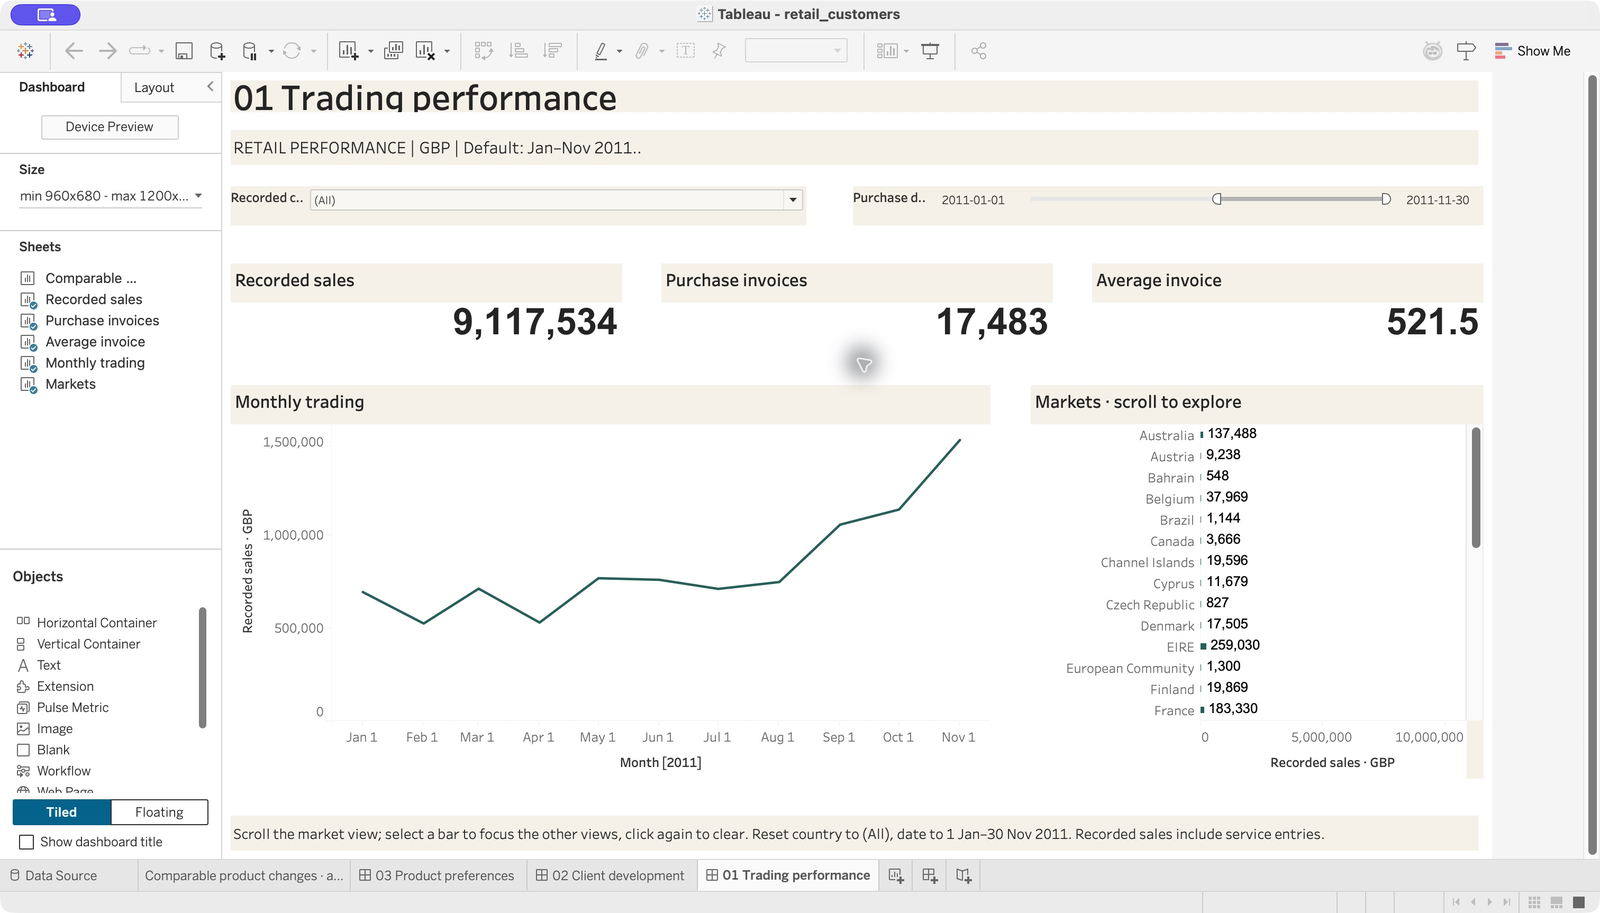
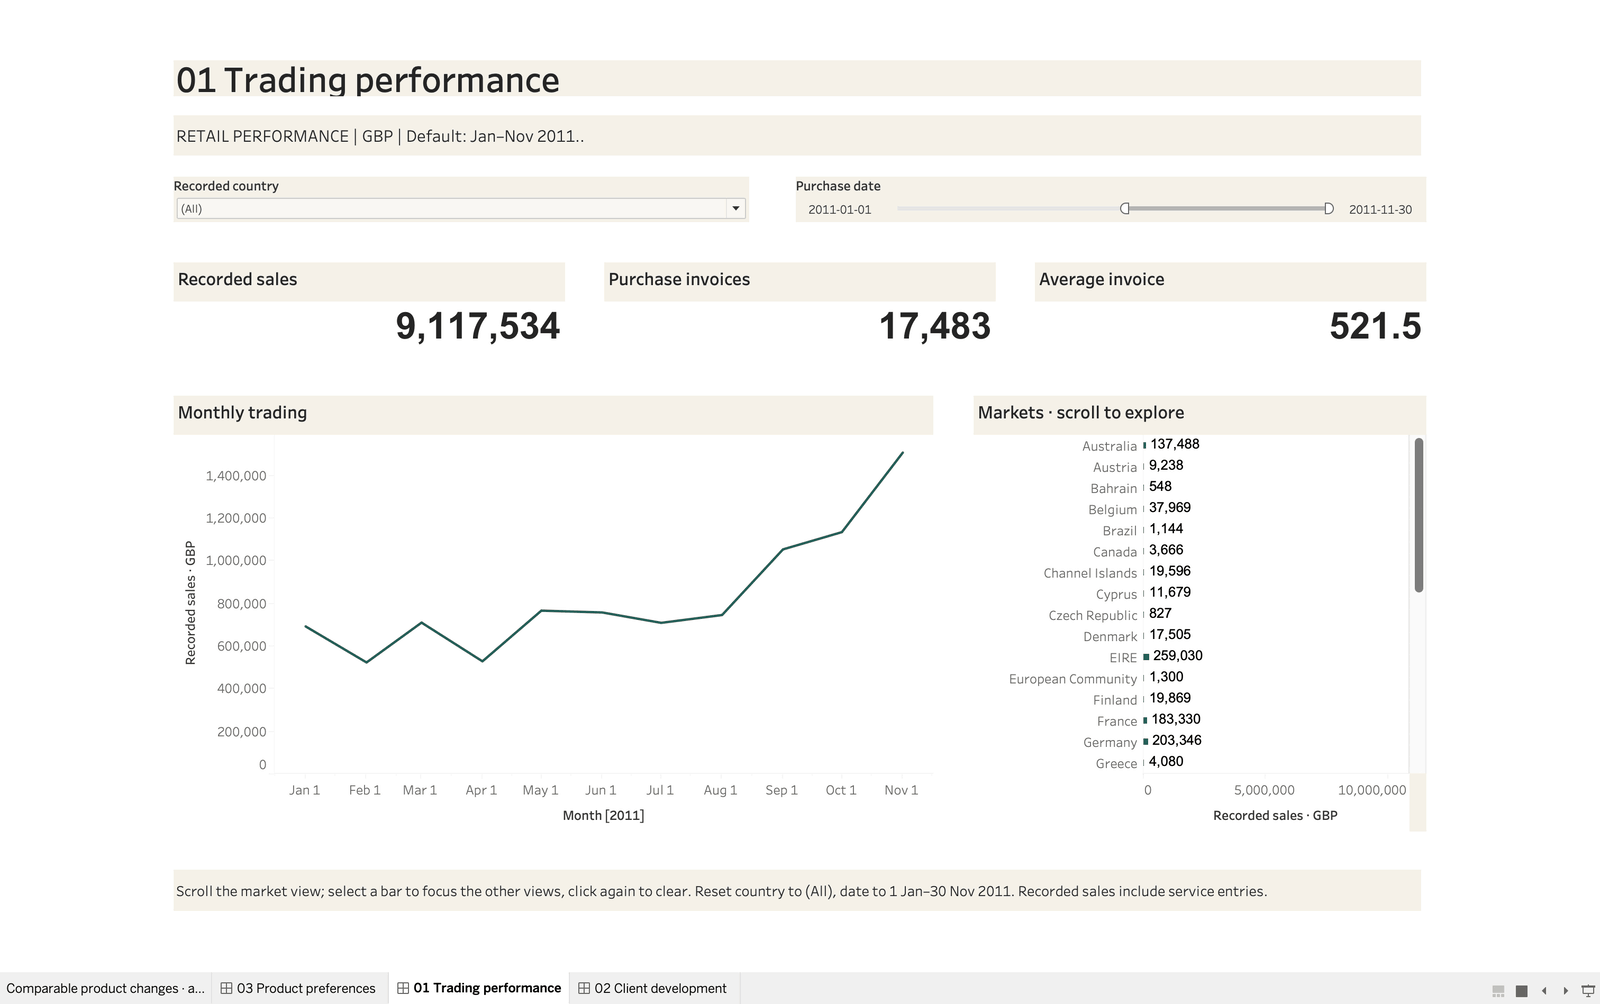
analytics: native Tableau screenshots and complaint filter fixes (#46)
- Retail: native presentation-mode captures of all three pages (Trading
  replaced, Client development and Product preferences added).
- Complaint workbook: the Channel filter lacked its data-source prefix and
  filtered nothing (load warning on all 13 sheets); the Product filter had no
  shared group and changed only one card. Both fixed; bar labels no longer
  forced to the bar start; notes cite the completed offline baseline.
- Native retest on 27 Oct: unfiltered totals, product, team, channel, date,
  intersection, empty selection and reset all match the published CSV.
- Status updated in the case README, dashboard docs, homepage and delivery plan.

diff --git a/scripts/check_publication.py b/scripts/check_publication.py
@@ -10,6 +10,10 @@ REVIEWED_SCREENSHOTS = {
     'projects/investment-research/docs/images/workbench-comparison.png',
     'projects/investment-research/docs/images/agent-draft.png',
     'projects/retail-customer-analytics/dashboard/images/tableau-trading-native.png',
+    'projects/retail-customer-analytics/dashboard/images/tableau-client-native.png',
+    'projects/retail-customer-analytics/dashboard/images/tableau-product-native.png',
+    'projects/complaint-analytics/dashboard/images/tableau-overview.png',
+    'projects/complaint-analytics/dashboard/images/tableau-text-coverage.png',
 }
 # Reviewed walkthrough media: synthetic demo data only; regenerate via apps/web/demo.
 REVIEWED_MEDIA = {

diff --git a/projects/complaint-analytics/dashboard/README.md b/projects/complaint-analytics/dashboard/README.md
@@ -1,10 +1,15 @@
 # Complaint Operations Dashboard — Tableau
 
 Decision: Tableau selected by the owner on 2026-09-28 for the Mac workflow.
-**Status:** SQL mart/export reconciled. A local two-page [workbook draft](complaint_operations.twb)
-now exists (13 worksheets). Both pages rendered at 1200 × 740, confirming 27,011 complaints,
-6,409 narratives, 23.7% coverage and 98.6% timely response. Final layout, filter interaction UAT and
-publication are **not complete**. See [verification notes](verification.md).
+**Status:** SQL mart/export reconciled and the two-page [workbook](complaint_operations.twb)
+(13 worksheets) checked natively in Tableau Desktop on 27 October 2026: shared product,
+team, channel and date filters, intersections, an empty selection and reset match the
+published CSV. Publication to a Tableau site is out of scope for the Free Edition.
+[Verification notes](verification.md#native-filter-retest--27-october-2026).
+
+| Complaint Overview | Text Coverage and AI Readiness |
+|---|---|
+| ![Native Tableau Complaint Overview page](images/tableau-overview.png) | ![Native Tableau Text Coverage and AI Readiness page](images/tableau-text-coverage.png) |
 
 This supports the simulated operations lead's US-2 in the
 [requirements](../docs/01_business_requirements.md).
@@ -98,18 +103,18 @@ A timely-response flag is not a final-resolution or customer-satisfaction measur
 | Complaint Overview | Which products and issues warrant further investigation? | Volume/timeliness KPI cards; daily volume line; product bars; issue bars; response-type distribution |
 | Text Coverage & AI Readiness | Where is usable text available, and what limits classification? | Narrative count/coverage cards; coverage by product; text present/absent stacked bars; limitations note |
 
-The draft includes date, product, channel and simulated-team controls with shared
-filter groups. Their cross-sheet behavior still needs UI verification. A visible
+Date, product, channel and simulated-team controls share filter groups across all
+13 worksheets, so each control applies to both pages (verified 27 October 2026). A visible
 reset instruction describes restoring all values and the full date range. Start with all
 teams and products selected. Avoid top-N issue filtering in global KPI denominators unless
 explicitly labelled. Label the window July 1–31, 2026, US CFPB published complaints.
 The source snapshot date is September 28, 2026. One month supports daily distribution,
-not annual trends or seasonality. No model quality or savings charts until evaluated.
+not annual trends or seasonality. The offline routing baseline appears only as a cited text note; there is no savings chart.
 
 ## Acceptance / UAT checklist
 
-SQL-to-CSV reconciliation below passed again on 2026-09-28. Initial rendering was
-inspected; full filter and final-layout UAT remain **not run**.
+SQL-to-CSV reconciliation below passed again on 2026-09-28. Native filter and layout
+checks passed on 27 October 2026; results are in the verification notes.
 The exporter also refuses missing/duplicate IDs or invalid received dates in scope.
 
 | Unfiltered measure | SQL / CSV expected |
@@ -130,13 +135,15 @@ The exporter also refuses missing/duplicate IDs or invalid received dates in sco
 | Home Lending | Mortgage | 3,066 | 728 |
 | Payments | Money transfer, virtual currency, or money service | 3,474 | 781 |
 
-- [ ] Match all unfiltered KPI counts above in Tableau.
-- [ ] Apply each product filter and match its two counts.
-- [ ] Verify date/channel filters affect every intended sheet; reset restores totals.
-- [ ] Empty selections show no data, not invented rates or zero accuracy.
-- [ ] Narrative and timeliness rates use weighted sums; unknowns remain visible.
-- [ ] Titles/tooltips explain scope, denominators and US/simulated-scenario boundaries.
-- [ ] Verify layout on Mac and inspect exported screenshots before claiming completion.
+- [x] Match all unfiltered KPI counts above in Tableau.
+- [x] Apply a product filter and match its counts on both pages (Prepaid card and
+  Mortgage checked; the other rows reconcile in SQL/CSV).
+- [x] Verify team, channel and date filters affect every sheet; reset restores totals.
+- [x] Empty selections show no data, not invented rates or zero accuracy.
+- [x] Narrative and timeliness rates use weighted sums; unknowns remain visible.
+- [x] Titles and notes explain scope, denominators and US/simulated-scenario boundaries.
+  Tooltips were not re-inspected in this check.
+- [x] Verify layout on Mac and inspect exported screenshots before claiming completion.
 
 The detailed local check output is `data/processed/tableau_export_checks.json`.
 Re-run profiling then the exporter after a source update; refresh the Tableau data

diff --git a/projects/complaint-analytics/dashboard/verification.md b/projects/complaint-analytics/dashboard/verification.md
@@ -7,7 +7,8 @@ Complaint Overview; Text Coverage and AI Readiness. The workbook references the
 local aggregate CSV without embedding records. The final canvas is authored at
 1200 × 740. The installed app is Tableau Desktop Free Edition 2026.2.3 on macOS.
 
-This is a **draft, not an accepted dashboard release**. BA trace: simulated
+Superseded by the [native filter retest, 27 October 2026](#native-filter-retest--27-october-2026);
+the notes below are the original draft record. At the time this was a **draft, not an accepted dashboard release**. BA trace: simulated
 operations lead US-2, requirements/data validation/reporting evidence. No user or
 stakeholder acceptance is implied.
 
@@ -83,3 +84,40 @@ Outstanding issues found during this inspection:
 
 The initial business interpretation and additional product-level timeliness checks
 are recorded in [findings.md](findings.md). No stakeholder UAT approval is implied.
+
+
+## Native filter retest — 27 October 2026
+
+Delegated technical check by Claude in Tableau Desktop 2026.2 (computer use), in
+presentation mode against the committed `../results/complaint_daily.csv`. This is
+not stakeholder acceptance.
+
+**Defects found and fixed in the workbook XML:**
+
+1. Opening the workbook warned for all 13 worksheets that
+   `[none:channel:nk]`, used for filtering, did not exist: the channel filter lacked
+   its data-source prefix, so the Channel control filtered nothing. The prefix is now
+   present.
+2. Selecting a product changed only the Complaints card: the product filter had no
+   shared filter group. It now shares group 5 across all worksheets.
+
+Bar labels were also forced left (over the bar start) by a cell `text-align` rule;
+removing it restores end-of-bar labels. The AI-readiness note and footnote now cite
+the completed offline baseline instead of saying no model results exist. No measure,
+calculation or data changed. The edited file reopened repeatedly without load warnings.
+
+| Check (both pages unless stated) | Tableau result | Expected from CSV | Outcome |
+|---|---|---|---|
+| Unfiltered | 27,011 · 6,409 · 23.7% · 20,602 · 98.6% timely · 0 unknown | Same | Pass |
+| Product = Prepaid card | 530 · 134 · 25.3% · 396; timely 92.1% | 530 · 134 · 25.3%; 42 No / 530 | Pass |
+| Team = Cards | 8,557 · 1,956 · 22.9%; only Credit and Prepaid bars | 8,027 + 530; 1,822 + 134 | Pass |
+| Prepaid card + Channel = Phone | 63 · 0 · 90.5% · 0 unknown | 63 · 0 · 90.5% | Pass |
+| + Team = Home Lending (no matching rows) | Cards and charts empty; no 0% or invented rate | No rows | Pass |
+| Mortgage, all channels/teams | 3,066 · 728 · 96.2% | 3,066 · 728 · 118 No | Pass |
+| Mortgage, 1–15 July 2026 | 1,498 · 579 · 93.7% | 1,498 · 579 · 93.7% | Pass |
+| Reset lists to (All) and dates to 1–31 July | Unfiltered totals return | Same | Pass |
+
+All public narratives in this scope arrive through the Web channel, so phone,
+referral and postal-mail selections show zero narrative coverage by construction.
+Screenshots: [Complaint Overview](images/tableau-overview.png) ·
+[Text Coverage and AI Readiness](images/tableau-text-coverage.png).

diff --git a/README.md b/README.md
@@ -9,7 +9,7 @@ Four cases connect business analysis with working data and software:
 |---|---|---|
 | [Bank Service Assist](docs/case-study.md) | Requirements, Agent-assisted transaction investigation and customer follow-up in a working full-stack application | Core workflow delivered; walkthrough below |
 | [Retail Customer & Sales Analysis](projects/retail-customer-analytics/README.md) | Real transaction cleaning, DuckDB fact/dimension model, analytical SQL and interactive Tableau views | Complete; findings reconciled to SQL |
-| [Complaint Routing Analysis](projects/complaint-analytics/README.md) | 27,011 public CFPB consumer-finance complaints: volume and timeliness analysis, plus a text-routing baseline (81.7% vs 31.5% team accuracy) | Analysis complete; Tableau dashboard in draft |
+| [Complaint Routing Analysis](projects/complaint-analytics/README.md) | 27,011 public CFPB consumer-finance complaints: volume and timeliness analysis, plus a text-routing baseline (81.7% vs 31.5% team accuracy) | Complete; Tableau filters checked |
 | [Investment Research Brief](projects/investment-research/README.md) | A separate research workbench for financial-report facts, comparisons and sources, with cited Agent drafts | Workbench and cited Agent drafts delivered; saved briefs paused |
 
 The rest of this page walks through the bank case.
@@ -154,8 +154,7 @@ Agent provider; no model key is needed.
 
 ## Roadmap
 
-Retail analysis is complete. Next: finish the complaint dashboard's Tableau
-interaction checks and screenshots. Investment research has cited Agent drafts;
+Retail and complaint analyses are complete, with native Tableau screenshots. Investment research has cited Agent drafts;
 saved briefs (INV-05) are planned but paused. Public hosting and live-model
 integration remain deferred.
 Future extensions include telephone self-service with human handoff and retail clienteling.

diff --git a/projects/complaint-analytics/README.md b/projects/complaint-analytics/README.md
@@ -24,9 +24,12 @@ simulated teams ([SQL](sql/03_routing_scope.sql)).
 | Unattended routing is not justified | Only 24% of cases clear 0.5 confidence (94.4% accurate there) |
 | One product needs taxonomy work | Prepaid-card recall 0.32; confused with checking, cards and transfers |
 
-**Status:** analysis and routing baseline complete. The Tableau workbook is a
-draft: both pages render with reconciled totals, but filter checks and screenshots
-are still pending (see [Limits](#limits)).
+**Status:** analysis, routing baseline and two-page Tableau dashboard complete. On
+27 October 2026 the native workbook's shared filters, intersections, an empty
+selection and reset were checked against the published CSV; two filter defects found
+in that check were fixed ([verification](dashboard/verification.md#native-filter-retest--27-october-2026)).
+
+![Native Tableau Complaint Overview page with product, team, channel and date filters](dashboard/images/tableau-overview.png)
 
 **Recommendation:** pilot *assisted* routing (suggest, analyst confirms) with a manual
 path for complaints without text; do not automate routing. Details:
@@ -72,7 +75,7 @@ outputs. Unit and SQL tests run in the repository's offline CI.
 ## Limits
 
 No classifier is deployed, no analyst used the suggestion and no time saving is measured.
-The Tableau workbook's two pages were inspected locally; filter interaction testing and
-the relative data path (`../results`) are not yet verified in Tableau Desktop. The model is
+The Tableau workbook opens from the committed aggregate CSV through its relative path;
+it is not published to a Tableau site (Free Edition). The model is
 scored against consumer-selected product labels; manually annotating the 70-row
 discovery sample is an optional pre-pilot step outside this case. No LLM was evaluated.

diff --git a/projects/retail-customer-analytics/README.md b/projects/retail-customer-analytics/README.md
@@ -59,11 +59,14 @@ merchandise value. [Diagnostic results](results/diagnostic_summary.json).
 
 ## Three decision views
 
-**Native Tableau workbook — actual Desktop capture, 24 October 2026.**
-Trading is shown at its default January–November 2011 scope; the three page tabs
-are visible along the bottom.
+**Native Tableau workbook — Desktop captures in presentation mode, 27 October 2026,**
+each page at its default scope with regenerated local extracts.
 
 ![Native Tableau Trading page with country/date filters, KPIs, trend and market chart](dashboard/images/tableau-trading-native.png)
+
+| Client development | Product preferences |
+|---|---|
+| ![Native Tableau Client development page with customer groups and cohort heatmap](dashboard/images/tableau-client-native.png) | ![Native Tableau Product preferences page with filters, top products and trend](dashboard/images/tableau-product-native.png) |
 
 | Page | Business question | Interactive analysis |
 |---|---|---|

diff --git a/projects/complaint-analytics/dashboard/findings.md b/projects/complaint-analytics/dashboard/findings.md
@@ -8,8 +8,9 @@ Canadian-market estimates, stakeholder approvals or measured AI outcomes.
 Evidence: `data/processed/tableau/complaint_daily.csv`, reconciled to the local
 DuckDB source by `scripts/export_tableau.py`. Each row is an aggregate; volume
 is the sum of `complaint_count`, not the CSV row count. Tableau screenshot
-inspection corroborated both pages' unfiltered headline indicators; filter UAT
-is still pending in [verification.md](verification.md).
+inspection corroborated both pages' unfiltered headline indicators. Update,
+27 October 2026: native filter checks passed after two workbook fixes
+([verification](verification.md#native-filter-retest--27-october-2026)).
 
 ## Findings and proposed operational responses
 

diff --git a/projects/complaint-analytics/docs/02_data_model.md b/projects/complaint-analytics/docs/02_data_model.md
@@ -28,5 +28,5 @@ The July archive has 16 source columns and no consent-status column. Source ZIP
 codes remain in raw data but are excluded from staging. Original source rows are
 retained; invalid IDs/dates become visible nulls and are counted in profiling.
 The aggregate mart, Tableau CSV export, workbook draft and baseline model evaluation
-are implemented; workbook acceptance remains open. An annotated evaluation set is an
+are implemented; native workbook filter checks passed on 27 October 2026. An annotated evaluation set is an
 optional pre-pilot step, outside this case.

diff --git a/docs/backlog/current-delivery.md b/docs/backlog/current-delivery.md
@@ -1,5 +1,9 @@
 # Current delivery — finish the bank core first
 
+**27 October 2026:** native Tableau checks completed for both analytics cases: three
+retail page screenshots, and the complaint dashboard's shared filters verified after
+fixing a broken channel filter and an unshared product filter.
+
 **26 October 2026:** the owner asked to finish and merge investment PR #37, so
 INV-04 (cited Agent drafts) is delivered. INV-05 saved briefs, memory and live model
 integration remain paused; the retail and complaint cases are unchanged.
